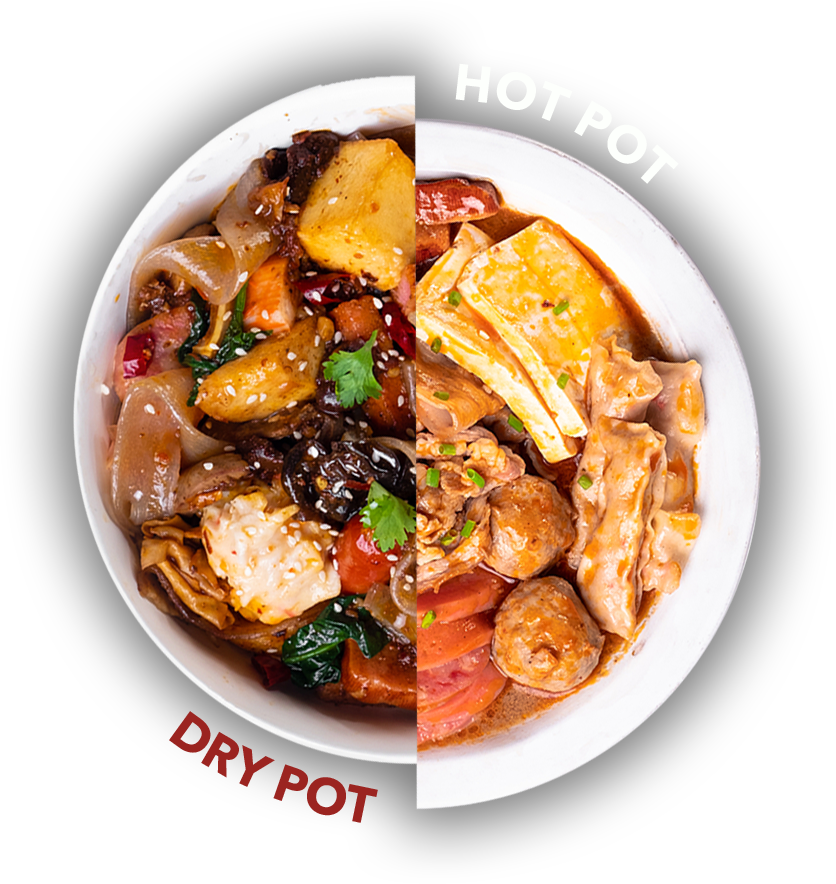
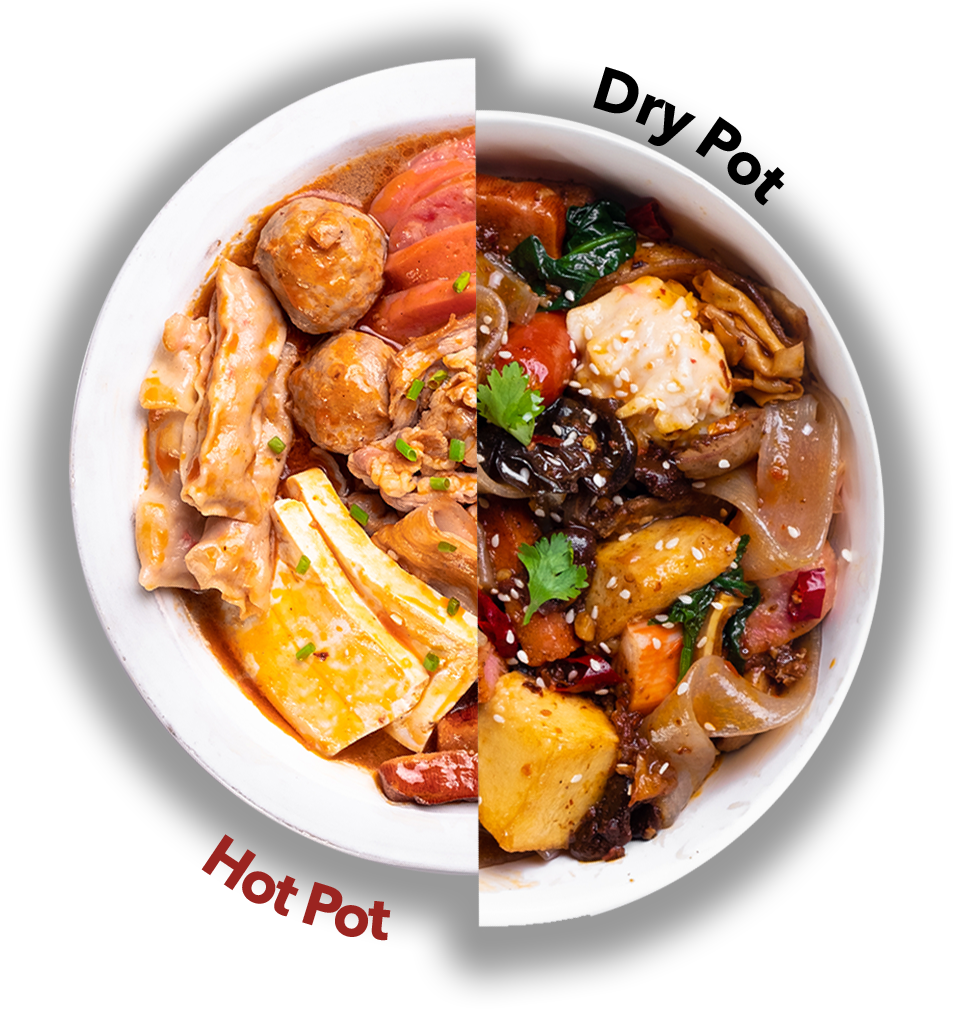
DryPotVSHotPot Image appears on 1200px below

diff --git a/landing-page/style.css b/landing-page/style.css
@@ -334,11 +334,7 @@ h1 {
     
     
 }
-@media (max-width: 980px) {
-    .container-main-meals {
-       
-    }
-}
+
 
 .main-meals-items {
     display: flex;
@@ -348,8 +344,27 @@ h1 {
     justify-self: center;
 }
 
-.main-meals .section-title{
+/* drypothotpot image will appear only 1200px max width and below */
 
+#container-drypothotpot-image  {
+    display: none;
+}
+
+#container-drypothotpot-image img {
+    max-width: 60%;
+    height: auto;
+}
+
+@media (max-width: 1200px) {
+
+    #container-drypothotpot-image  {
+        margin-top: 25px;
+        display: flex;
+        flex-direction: column;
+        align-items: center;
+        justify-content: center;
+    }
+    
 }
 
 .favorites-section {

diff --git a/landing-page/index.html b/landing-page/index.html
@@ -60,6 +60,9 @@
                         <h4>- PICK YOUR SPICE LEVEL<i class="fas fa-pepper-hot"></i><i class="fas fa-pepper-hot"></i><i class="fas fa-pepper-hot"></i></h4>
                         <h4>- CHOOSE BETWEEN HOT POT OR DRY POT</h4>
                     </div>
+                    <div class="flex-column-item" id="container-drypothotpot-image">
+                        <img src="./images/drypotHotpotNoBG.png">
+                    </div>
                     
                     
                     <section class="favorites-section">
